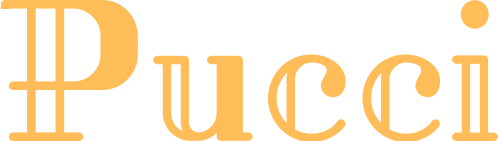
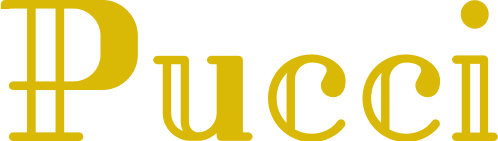
cleaning up code and change some color values -re

Changed region(s): [[0.0, 0.0, 0.6928, 1.0], [0.7229, 0.3688, 1.0, 1.0], [0.9036, 0.0, 0.994, 0.1986]]

diff --git a/index.html b/index.html
@@ -29,10 +29,10 @@
             </a>
             <div class="collapse navbar-collapse" id="navbarNavDropdown">
                 <ul class="navbar-nav" style="font-family: 'Anek Malayalam', sans-serif; font-size: x-large;">
-                    <li class="nav-item">
+                    <li class="nav-item me-2">
                         <a class="nav-link" href="#">Features</a>
                     </li>
-                    <li class="nav-item dropdown">
+                    <li class="nav-item dropdown me-2">
                         <a class="nav-link dropdown-toggle" href="#" id="navbarDropdownMenuLink" role="button" data-bs-toggle="dropdown" aria-expanded="false">
                             Puppers
                         </a>
@@ -46,7 +46,7 @@
                             <li><a class="dropdown-item" href="#">All Dogs</a></li>
                         </ul>
                     </li>
-                    <li class="nav-item dropdown">
+                    <li class="nav-item dropdown me-2">
                         <a class="nav-link dropdown-toggle" href="#" id="navbarDropdownMenuLink" role="button" data-bs-toggle="dropdown" aria-expanded="false">
                             Kitties
                         </a>
